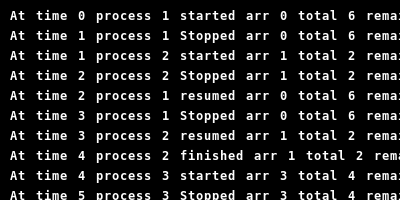
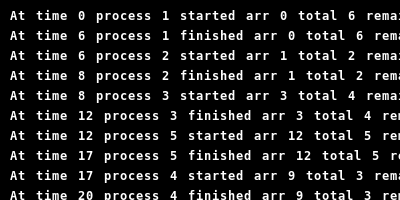
guiiii

diff --git a/Phase1/code/GUI.c b/Phase1/code/GUI.c
@@ -124,11 +124,12 @@ int quantum;
     snprintf(commmand,sizeof(commmand),"./process_generator.out \"%s\" %d %d",process_info,selected_algorithm,quantum);
     system(commmand);
     // Generate image with selected information
-    int stat
+    /*int stat
     key_t p;
     do{
-    p=waitpid(-1,&stat,0);
-    }while(p==0);
+    p=waitpid(-1,&stat,WNOHANG);
+    }while(p==0);*/
+    sleep(20);
 
     create_image_from_text("scheduler.log", "image1.png");
 
